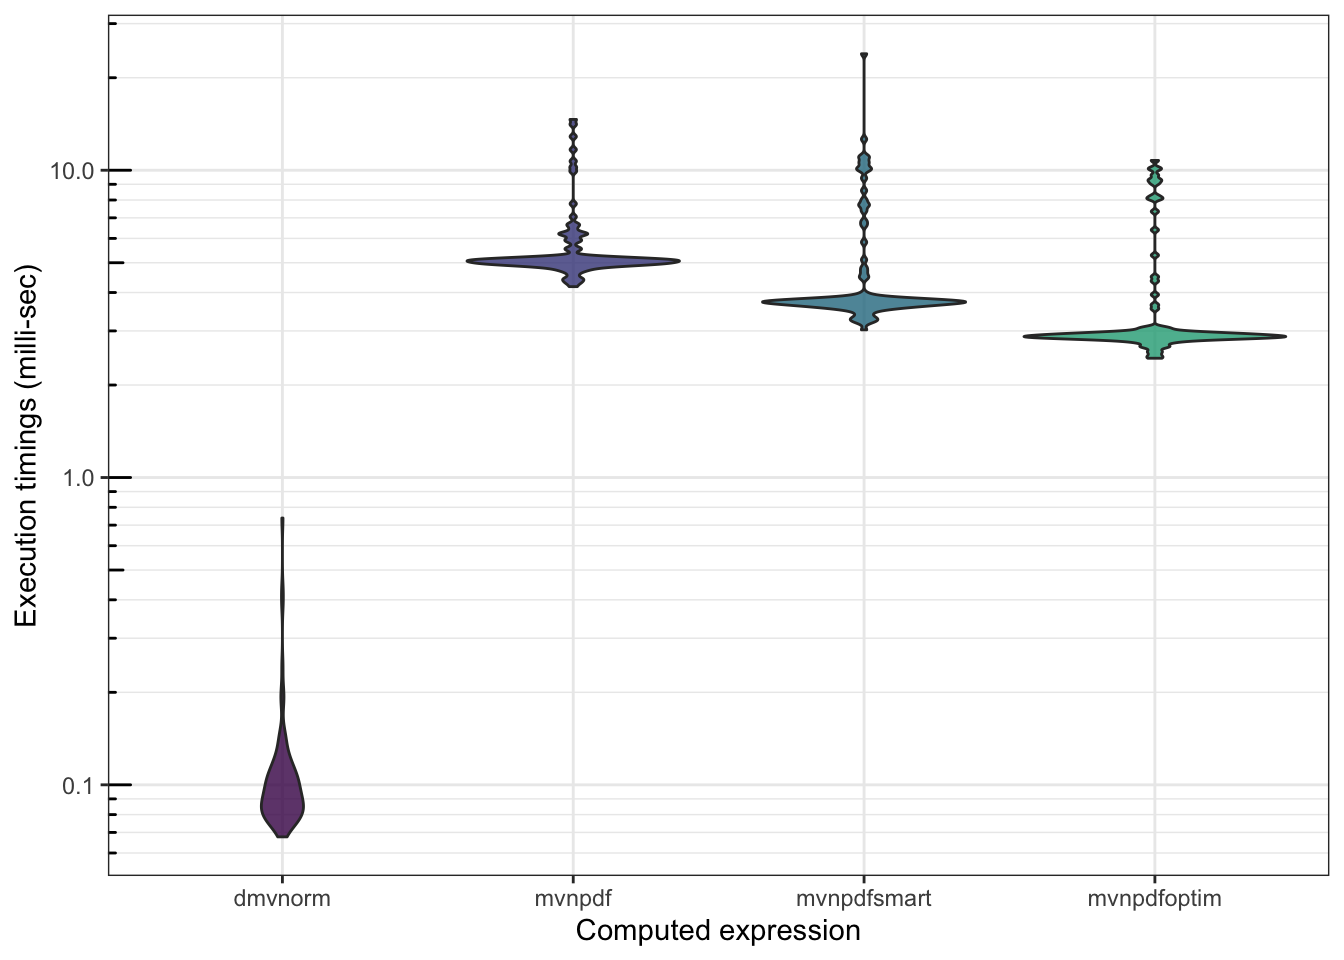
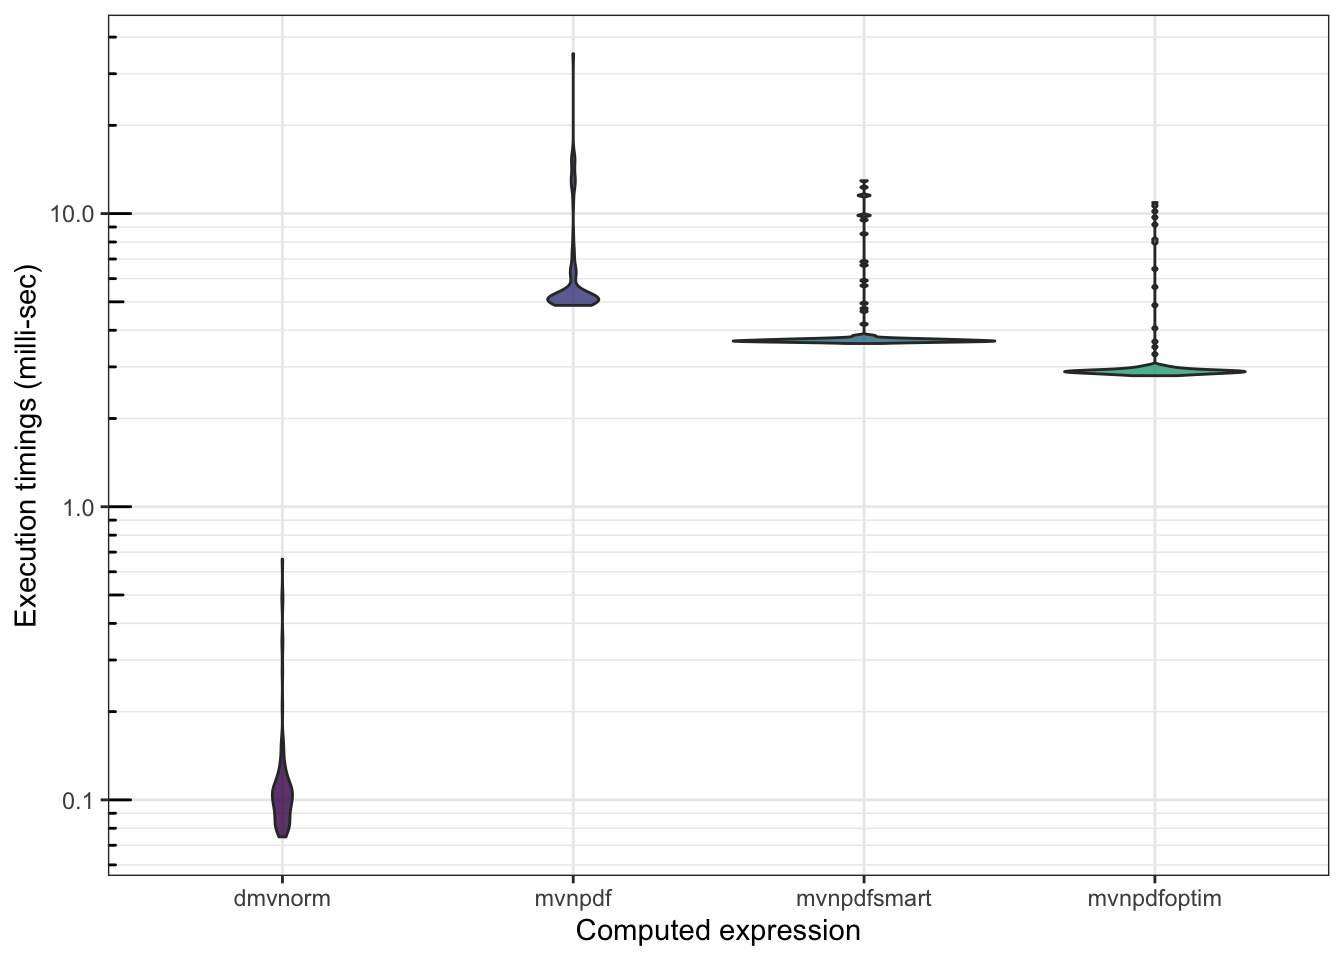
ref + typos

diff --git a/_book/measuring-and-comparing-execution-times.html b/_book/measuring-and-comparing-execution-times.html
@@ -73,13 +73,13 @@
 <div class="sourceCode" id="cb9"><pre class="downlit sourceCode r">
 <code class="sourceCode R"><span class="fu"><a href="https://rdrr.io/r/base/system.time.html">system.time</a></span><span class="op">(</span><span class="fu">mvnpdf</span><span class="op">(</span>x<span class="op">=</span><span class="fu"><a href="https://rdrr.io/r/base/matrix.html">matrix</a></span><span class="op">(</span><span class="fu"><a href="https://rdrr.io/r/base/rep.html">rep</a></span><span class="op">(</span><span class="fl">1.96</span>, <span class="fl">2</span><span class="op">)</span>, nrow<span class="op">=</span><span class="fl">2</span>, ncol<span class="op">=</span><span class="fl">1</span><span class="op">)</span>, Log<span class="op">=</span><span class="cn">FALSE</span><span class="op">)</span><span class="op">)</span></code></pre></div>
 <pre><code>## utilisateur     système      écoulé 
-##       0.001       0.000       0.002</code></pre>
+##       0.001       0.001       0.004</code></pre>
 <p>The problem that appears in this example is that the execution is so fast that <code><a href="https://rdrr.io/r/base/system.time.html">system.time()</a></code> displays <code>0</code> (or a very close value) that will be impossible to marginally compare to a hopefully faster implementation. Also, we see that there is some variability when we run the command several times.</p>
 <p>Thus if we want to compare our code with the <code><a href="https://rdrr.io/pkg/mvtnorm/man/Mvnorm.html">mvtnorm::dmvnorm()</a></code> function, we can’t use <code><a href="https://rdrr.io/r/base/system.time.html">system.time()</a></code> :</p>
 <div class="sourceCode" id="cb11"><pre class="downlit sourceCode r">
 <code class="sourceCode R"><span class="fu"><a href="https://rdrr.io/r/base/system.time.html">system.time</a></span><span class="op">(</span><span class="fu">mvtnorm</span><span class="fu">::</span><span class="fu"><a href="https://rdrr.io/pkg/mvtnorm/man/Mvnorm.html">dmvnorm</a></span><span class="op">(</span><span class="fu"><a href="https://rdrr.io/r/base/rep.html">rep</a></span><span class="op">(</span><span class="fl">1.96</span>, <span class="fl">2</span><span class="op">)</span><span class="op">)</span><span class="op">)</span></code></pre></div>
 <pre><code>## utilisateur     système      écoulé 
-##       0.010       0.005       0.019</code></pre>
+##       0.005       0.004       0.013</code></pre>
 <p>We could say that we have to increase the complexity of our calculation, but there is a better way: use the <code>microbenchmark</code> package !</p>
 </div>
 <div id="compare-execution-timings-with-microbenchmark." class="section level2" number="3.2">
@@ -95,12 +95,12 @@
                      times <span class="op">=</span> <span class="fl">1000L</span><span class="op">)</span>
 <span class="va">mb</span></code></pre></div>
 <pre><code>## Unit: microseconds
-##                                           expr    min      lq     mean  median
-##                 mvtnorm::dmvnorm(rep(1.96, 2)) 37.717 41.8865 49.31294 45.4660
-##  mvnpdf(x = matrix(rep(1.96, 2)), Log = FALSE) 34.732 38.7445 43.14681 41.7845
+##                                           expr    min     lq     mean  median
+##                 mvtnorm::dmvnorm(rep(1.96, 2)) 37.299 42.010 50.25675 48.6525
+##  mvnpdf(x = matrix(rep(1.96, 2)), Log = FALSE) 34.202 38.967 48.05918 44.2990
 ##       uq      max neval
-##  50.7395 2502.106  1000
-##  46.6245  150.581  1000</code></pre>
+##  53.2555  169.058  1000
+##  48.0075 2518.629  1000</code></pre>
 <pre><code>## Warning: It is deprecated to specify `guide = FALSE` to remove a guide. Please
 ## use `guide = "none"` instead.</code></pre>
 <div class="inline-figure"><img src="AdvancedRcourse_dev_perf_files/figure-html/unnamed-chunk-13-1.png" width="672"></div>
@@ -114,11 +114,11 @@
 <span class="va">mb</span></code></pre></div>
 <pre><code>## Unit: microseconds
 ##                                                       expr     min       lq
-##         mvtnorm::dmvnorm(matrix(1.96, nrow = n, ncol = 2))  53.633  63.6965
-##  mvnpdf(x = matrix(1.96, nrow = 2, ncol = n), Log = FALSE) 532.895 614.2400
-##       mean   median      uq      max neval
-##   96.28033  71.9045  86.713  370.031   100
-##  762.34866 639.4735 772.990 1929.667   100</code></pre>
+##         mvtnorm::dmvnorm(matrix(1.96, nrow = n, ncol = 2))  47.739  64.4745
+##  mvnpdf(x = matrix(1.96, nrow = 2, ncol = n), Log = FALSE) 526.436 604.2445
+##       mean   median       uq      max neval
+##   99.16749  73.8015 104.5315  327.255   100
+##  723.85185 641.6890 730.0480 1722.474   100</code></pre>
 <pre><code>## Warning: It is deprecated to specify `guide = FALSE` to remove a guide. Please
 ## use `guide = "none"` instead.</code></pre>
 <div class="inline-figure"><img src="AdvancedRcourse_dev_perf_files/figure-html/unnamed-chunk-15-1.png" width="672"></div>

diff --git a/_book/profiling-code.html b/_book/profiling-code.html
@@ -91,11 +91,11 @@
 <span class="va">mb</span></code></pre></div>
 <pre><code>## Unit: milliseconds
 ##                                                            expr      min
-##       mvnpdf(x = matrix(1.96, nrow = 2, ncol = n), Log = FALSE) 4.620150
-##  mvnpdfsmart(x = matrix(1.96, nrow = 2, ncol = n), Log = FALSE) 3.302888
-##        lq     mean   median       uq      max neval
-##  5.094502 6.900689 5.278217 6.937129 17.74393   100
-##  3.748897 4.997380 3.862265 4.995139 27.74024   100</code></pre>
+##       mvnpdf(x = matrix(1.96, nrow = 2, ncol = n), Log = FALSE) 4.869755
+##  mvnpdfsmart(x = matrix(1.96, nrow = 2, ncol = n), Log = FALSE) 3.628044
+##        lq     mean  median       uq      max neval
+##  5.160902 7.284984 5.37896 7.181785 31.63091   100
+##  3.762395 4.543983 3.85252 4.050699 12.74286   100</code></pre>
 <pre><code>## Warning: It is deprecated to specify `guide = FALSE` to remove a guide. Please
 ## use `guide = "none"` instead.</code></pre>
 <div class="inline-figure"><img src="AdvancedRcourse_dev_perf_files/figure-html/unnamed-chunk-20-1.png" width="672"></div>
@@ -109,13 +109,13 @@
 <span class="va">mb</span></code></pre></div>
 <pre><code>## Unit: microseconds
 ##                                                            expr      min
-##              mvtnorm::dmvnorm(matrix(1.96, nrow = n, ncol = 2))   60.570
-##       mvnpdf(x = matrix(1.96, nrow = 2, ncol = n), Log = FALSE) 4137.802
-##  mvnpdfsmart(x = matrix(1.96, nrow = 2, ncol = n), Log = FALSE) 3038.497
-##        lq      mean    median       uq       max neval
-##    79.864  104.0058   90.2905  110.733   593.777   100
-##  5011.452 6851.5672 5121.4200 6079.775 31701.165   100
-##  3665.533 4797.1610 3746.0765 4165.589 14352.967   100</code></pre>
+##              mvtnorm::dmvnorm(matrix(1.96, nrow = n, ncol = 2))   69.479
+##       mvnpdf(x = matrix(1.96, nrow = 2, ncol = n), Log = FALSE) 4961.732
+##  mvnpdfsmart(x = matrix(1.96, nrow = 2, ncol = n), Log = FALSE) 3614.989
+##        lq      mean   median       uq       max neval
+##    89.119  122.0013  103.142  125.462   458.462   100
+##  5062.067 7011.9124 5180.253 6318.708 34162.848   100
+##  3670.166 4615.6735 3694.126 3982.127 32112.962   100</code></pre>
 <pre><code>## Warning: It is deprecated to specify `guide = FALSE` to remove a guide. Please
 ## use `guide = "none"` instead.</code></pre>
 <div class="inline-figure"><img src="AdvancedRcourse_dev_perf_files/figure-html/unnamed-chunk-22-1.png" width="672"></div>
@@ -142,15 +142,15 @@
 <span class="va">mb</span></code></pre></div>
 <pre><code>## Unit: microseconds
 ##                                                            expr      min
-##              mvtnorm::dmvnorm(matrix(1.96, nrow = n, ncol = 2))   67.708
-##       mvnpdf(x = matrix(1.96, nrow = 2, ncol = n), Log = FALSE) 4180.079
-##  mvnpdfsmart(x = matrix(1.96, nrow = 2, ncol = n), Log = FALSE) 3024.442
-##  mvnpdfoptim(x = matrix(1.96, nrow = 2, ncol = n), Log = FALSE) 2444.397
-##         lq      mean   median       uq       max neval
-##    81.5095  113.1171   94.126  110.486   738.245   100
-##  4944.9130 5661.3427 5086.382 5220.157 14633.365   100
-##  3634.2880 4828.9424 3730.117 3874.717 23932.975   100
-##  2843.5075 3659.1918 2890.704 2980.654 10763.543   100</code></pre>
+##              mvtnorm::dmvnorm(matrix(1.96, nrow = n, ncol = 2))   74.778
+##       mvnpdf(x = matrix(1.96, nrow = 2, ncol = n), Log = FALSE) 4863.229
+##  mvnpdfsmart(x = matrix(1.96, nrow = 2, ncol = n), Log = FALSE) 3603.917
+##  mvnpdfoptim(x = matrix(1.96, nrow = 2, ncol = n), Log = FALSE) 2798.555
+##        lq      mean   median       uq       max neval
+##    88.139  123.0665  101.705  112.530   662.245   100
+##  5064.955 6729.6069 5137.568 6190.238 35093.630   100
+##  3667.066 4401.1785 3700.849 3753.122 12948.724   100
+##  2862.880 3472.5640 2905.566 2958.695 10909.571   100</code></pre>
 <pre><code>## Warning: It is deprecated to specify `guide = FALSE` to remove a guide. Please
 ## use `guide = "none"` instead.</code></pre>
 <div class="inline-figure"><img src="AdvancedRcourse_dev_perf_files/figure-html/unnamed-chunk-25-1.png" width="672"></div>

diff --git a/_book/rcpp-or-how-to-easily-embed-c-code-into-a-package.html b/_book/rcpp-or-how-to-easily-embed-c-code-into-a-package.html
@@ -118,17 +118,17 @@ package:</p></li>
 <span class="va">mb</span></code></pre></div>
 <pre><code>## Unit: microseconds
 ##                                                            expr      min
-##              mvtnorm::dmvnorm(matrix(1.96, nrow = n, ncol = 2))   71.448
-##       mvnpdf(x = matrix(1.96, nrow = 2, ncol = n), Log = FALSE) 4501.857
-##  mvnpdfsmart(x = matrix(1.96, nrow = 2, ncol = n), Log = FALSE) 3207.054
-##  mvnpdfoptim(x = matrix(1.96, nrow = 2, ncol = n), Log = FALSE) 2480.385
-##  mvnpdf_invC(x = matrix(1.96, nrow = 2, ncol = n), Log = FALSE) 3321.398
-##        lq      mean    median        uq       max neval
-##    87.564  103.7991  104.2295  114.2475   224.443   100
-##  5049.767 5810.0220 5227.5625 5427.6940 19239.413   100
-##  3744.015 4455.1469 3878.3800 4012.6410 12781.713   100
-##  2939.440 3900.1739 3088.1455 3305.3940 10946.622   100
-##  3749.708 4476.2352 3861.7285 3965.7290 27882.307   100</code></pre>
+##              mvtnorm::dmvnorm(matrix(1.96, nrow = n, ncol = 2))   70.755
+##       mvnpdf(x = matrix(1.96, nrow = 2, ncol = n), Log = FALSE) 4877.251
+##  mvnpdfsmart(x = matrix(1.96, nrow = 2, ncol = n), Log = FALSE) 3647.416
+##  mvnpdfoptim(x = matrix(1.96, nrow = 2, ncol = n), Log = FALSE) 2804.635
+##  mvnpdf_invC(x = matrix(1.96, nrow = 2, ncol = n), Log = FALSE) 3651.584
+##         lq      mean    median       uq       max neval
+##    95.1005  123.8956  107.4325  123.714   654.361   100
+##  5116.8195 6177.0029 5246.4990 5470.755 20505.243   100
+##  3750.8760 4481.9722 3857.4560 3995.096 13867.760   100
+##  2963.3760 3577.3203 3072.7230 3216.421 10759.405   100
+##  3776.7525 4703.0914 3877.9180 3995.347 27386.366   100</code></pre>
 <pre><code>## Warning: It is deprecated to specify `guide = FALSE` to remove a guide. Please
 ## use `guide = "none"` instead.</code></pre>
 <div class="inline-figure"><img src="AdvancedRcourse_dev_perf_files/figure-html/unnamed-chunk-31-1.png" width="672"></div>
@@ -169,13 +169,13 @@ package:</p></li>
 ##                                        mvnpdfoptim(x = matrix(1.96, nrow = 2, ncol = n), Log = FALSE)
 ##                                        mvnpdf_invC(x = matrix(1.96, nrow = 2, ncol = n), Log = FALSE)
 ##  mvnpdfC(x = matrix(1.96, nrow = 2, ncol = n), mean = rep(0, 2),      varcovM = diag(2), Log = FALSE)
-##       min       lq       mean    median        uq       max neval
-##    71.943   98.193  138.68920  115.5960  130.4435  1194.183   100
-##  4406.290 5069.358 6930.96309 5224.9485 5678.5740 77509.287   100
-##  3358.475 3769.032 4217.66535 3912.5670 4050.8230 18576.043   100
-##  2667.797 2991.110 4010.21722 3107.0175 3424.1345 15155.356   100
-##  3220.877 3771.895 4732.00915 3891.0500 4092.6410 22860.079   100
-##    55.088   64.172   72.77855   71.0445   75.8865   142.845   100</code></pre>
+##       min        lq       mean   median        uq       max neval
+##    71.604   95.1190  120.09717  107.207  116.9705   480.552   100
+##  4800.652 5057.3685 5841.45600 5123.868 5275.6775 17512.870   100
+##  3088.795 3674.1265 4607.81845 3810.012 4043.8300 12095.968   100
+##  2577.269 2891.4105 4423.53570 2996.864 3202.8530 78051.886   100
+##  3043.817 3671.7140 4250.16905 3790.788 3941.0260 12460.504   100
+##    50.732   64.3775   72.67143   67.737   71.2180   187.805   100</code></pre>
 <pre><code>## Warning: It is deprecated to specify `guide = FALSE` to remove a guide. Please
 ## use `guide = "none"` instead.</code></pre>
 <div class="inline-figure"><img src="AdvancedRcourse_dev_perf_files/figure-html/unnamed-chunk-34-1.png" width="672"></div>

diff --git a/_book/version-control-with-git-and-github.html b/_book/version-control-with-git-and-github.html
@@ -288,9 +288,18 @@ URL: <a href="http://github.com/*username*/mypkg" class="uri">http://github.com/
 <p>It has the advantage to use the exact same infrastructure as the <code>CRAN</code> make the <em>check</em> of your package foolproof. You can use it through the <code><a href="https://devtools.r-lib.org/reference/check_rhub.html">devtools::check_rhub()</a></code> fucntion.</p>
 </div>
 </div>
-<div id="appendix-2.1-code-coverage" class="section level2" number="2.6">
+<div id="additional-references" class="section level2" number="2.6">
 <h2>
-<span class="header-section-number">2.6</span> Appendix 2.1: Code coverage<a class="anchor" aria-label="anchor" href="#appendix-2.1-code-coverage"><i class="fas fa-link"></i></a>
+<span class="header-section-number">2.6</span> Additional References<a class="anchor" aria-label="anchor" href="#additional-references"><i class="fas fa-link"></i></a>
+</h2>
+<ul>
+<li>
+<a href="https://happygitwithr.com/"><em>Happy Git With R</em></a> by Jenny Bryan.</li>
+</ul>
+</div>
+<div id="appendix-2.1-code-coverage" class="section level2" number="2.7">
+<h2>
+<span class="header-section-number">2.7</span> Appendix 2.1: Code coverage<a class="anchor" aria-label="anchor" href="#appendix-2.1-code-coverage"><i class="fas fa-link"></i></a>
 </h2>
 <p>The <code>covr</code> package proposes a solution to measure the coverage of unit tests associated to a
 package. The test coverage determines the proportion of the source code that is actually used
@@ -346,7 +355,8 @@ during the execution of unit tests. Measuring the coverage of the code reinforce
 <li><a class="nav-link" href="#r-hub"><span class="header-section-number">2.5.2</span> R-hub</a></li>
 </ul>
 </li>
-<li><a class="nav-link" href="#appendix-2.1-code-coverage"><span class="header-section-number">2.6</span> Appendix 2.1: Code coverage</a></li>
+<li><a class="nav-link" href="#additional-references"><span class="header-section-number">2.6</span> Additional References</a></li>
+<li><a class="nav-link" href="#appendix-2.1-code-coverage"><span class="header-section-number">2.7</span> Appendix 2.1: Code coverage</a></li>
 </ul>
 
       <div class="book-extra">

diff --git a/_book/code-parallelization.html b/_book/code-parallelization.html
@@ -141,7 +141,7 @@
 <span class="op">}</span>
 <span class="fu"><a href="https://rdrr.io/r/base/system.time.html">system.time</a></span><span class="op">(</span><span class="fu">colmedian_apply</span><span class="op">(</span><span class="va">x</span><span class="op">)</span><span class="op">)</span></code></pre></div>
 <pre><code>## utilisateur     système      écoulé 
-##       3.078       0.008       3.095</code></pre>
+##       3.143       0.004       3.148</code></pre>
 <p>In reality, a (good) <code>for</code> loop is no slower – provided it is nicely programmed:</p>
 <div class="sourceCode" id="cb46"><pre class="downlit sourceCode r">
 <code class="sourceCode R"><span class="va">colmedian_for</span> <span class="op">&lt;-</span> <span class="kw">function</span><span class="op">(</span><span class="va">x</span><span class="op">)</span><span class="op">{</span>
@@ -153,7 +153,7 @@
 <span class="op">}</span>
 <span class="fu"><a href="https://rdrr.io/r/base/system.time.html">system.time</a></span><span class="op">(</span><span class="fu">colmedian_for</span><span class="op">(</span><span class="va">x</span><span class="op">)</span><span class="op">)</span></code></pre></div>
 <pre><code>## utilisateur     système      écoulé 
-##       3.026       0.006       3.037</code></pre>
+##       2.969       0.002       2.973</code></pre>
 <blockquote>
 <p>👉 <strong><em>Your turn !</em></strong>
 Try to further improve this computation time through parallelizing your code:</p>
